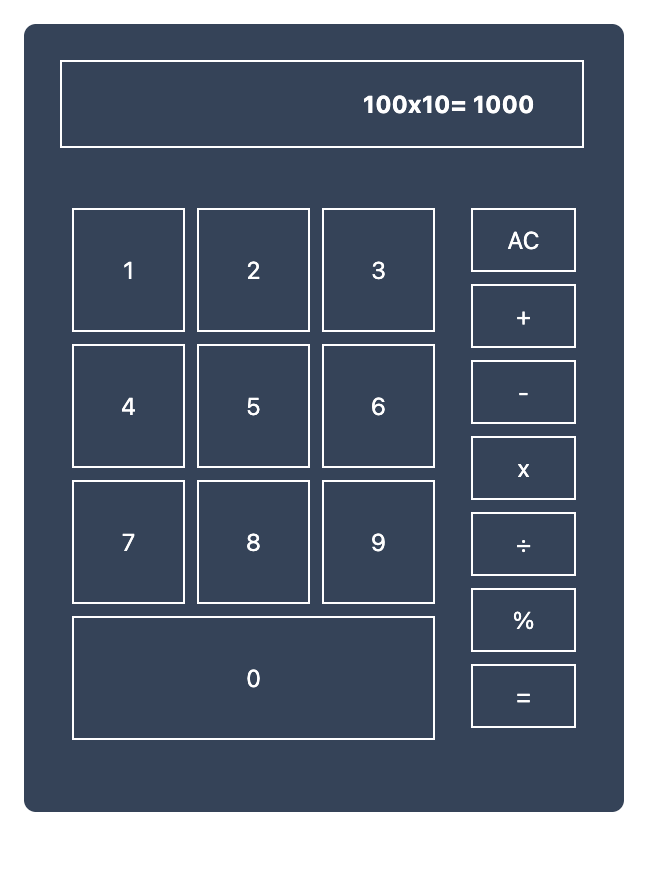
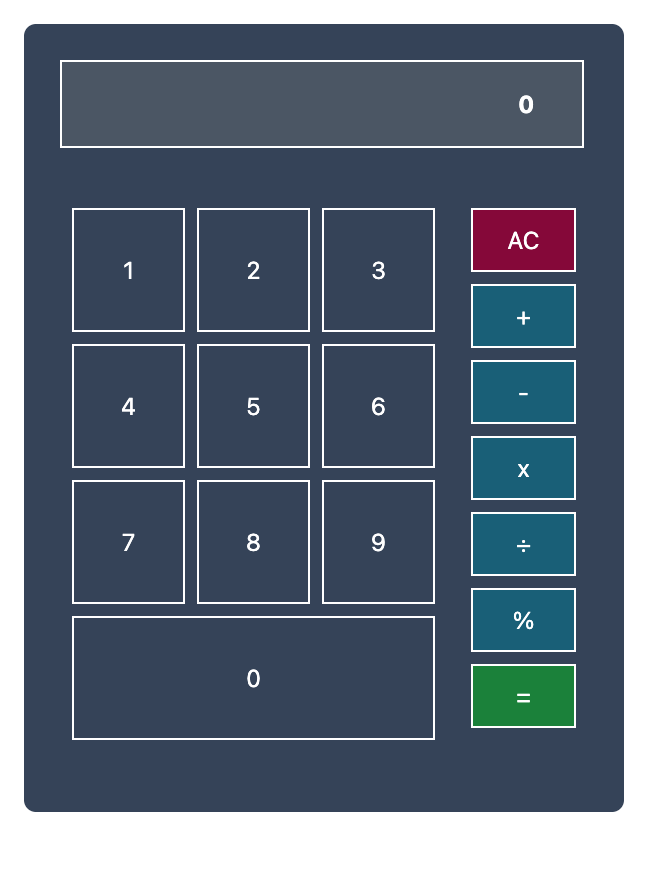
ux changes

Changed region(s): [[0.6949, 0.2133, 0.8761, 0.8228], [0.5438, 0.0914, 0.7855, 0.1524]]

diff --git a/src/App.vue b/src/App.vue
@@ -80,8 +80,10 @@ const calculate = () => {
   <div class="bg-slate-700 max-w-100 m-4 p-4 rounded-lg">
     <input
       type="text"
-      class="w-[95%] text-right border text-white my-2 py-4 px-8 mx-2 font-bold"
+      class="w-[95%] text-right border bg-gray-600 text-white my-2 py-4 px-8 mx-2 font-bold"
       v-model="displayed"
+      readonly
+      disabled
     />
     <div class="grid grid-cols-4 gap-2">
       <div class="grid col-span-3 grid-cols-3 gap-2 px-4 py-8">
@@ -100,11 +102,15 @@ const calculate = () => {
           class="p-2 text-white border w-25 mb-2"
           v-for="operator in operators"
           :key="operator"
+          :class="operator === 'AC' ? 'bg-rose-900' : 'bg-cyan-800'"
           @click="() => onOperatorClick(operator)"
         >
           {{ operator }}
         </button>
-        <button class="p-2 text-white border w-25 mb-2" @click="calculate">
+        <button
+          class="p-2 text-white border w-25 mb-2 bg-green-700"
+          @click="calculate"
+        >
           =
         </button>
       </div>

diff --git a/index.html b/index.html
@@ -4,7 +4,7 @@
     <meta charset="UTF-8" />
     <link rel="icon" type="image/svg+xml" href="/vite.svg" />
     <meta name="viewport" content="width=device-width, initial-scale=1.0" />
-    <title>dysflexis-interview</title>
+    <title>Vue 3 Calculator</title>
   </head>
   <body>
     <div id="app"></div>
